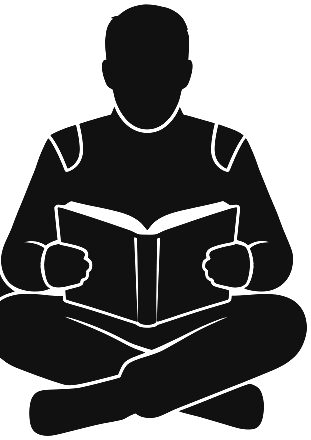
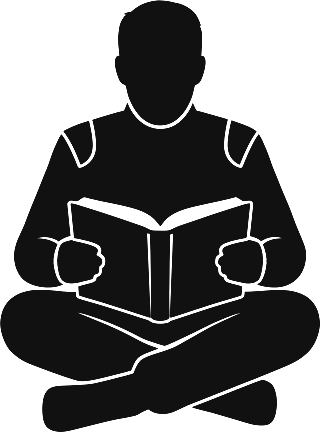
Animaciones: lector piensa en su casco, saltos precisos, figuras legibles sobre el aro, rata que sigue la bolita

diff --git a/assets/css/site.css b/assets/css/site.css
@@ -1171,8 +1171,8 @@ a:hover .esc .fig,.esc:hover .fig{transform:translateX(-50%) translateY(-4px)}
 .ea-pm .c1{background:var(--rojo);margin-left:-100px;animation:pmIzq 7s var(--golpe) infinite}
 .ea-pm .c2{border:9px solid var(--negro);margin-left:-18px;animation:pmDer 7s var(--golpe) infinite}
 .ea-pm .suelo{position:absolute;left:12%;right:12%;bottom:12px;height:2px;background:var(--negro)}
-@keyframes pmIzq{0%{transform:translateX(-190px)}18%,86%{transform:none}96%,100%{transform:translateX(-190px)}}
-@keyframes pmDer{0%{transform:translateX(190px)}18%,86%{transform:none}96%,100%{transform:translateX(190px)}}
+
+
 .ea-pm .pa,.ea-pm .pb{height:62px;width:auto;bottom:42px;opacity:0}
 .ea-pm .pa{left:calc(50% - 26px);animation:pmA 7s var(--golpe) infinite}
 .ea-pm .pb{left:calc(50% - 1px);animation:pmB 7s var(--golpe) infinite}
@@ -1252,9 +1252,9 @@ a:hover .esc .fig,.esc:hover .fig{transform:translateX(-50%) translateY(-4px)}
 .ta-plan .run{animation:salta 9s linear infinite}
 .ta-plan .sit{height:30px;left:102px;top:44px;animation:sientaP 9s linear infinite}
 .ta-plan .walk{animation:vuelve 9s linear infinite}
-@keyframes salta{0%{opacity:1;transform:translate(-40px,60px)}6%{transform:translate(0,48px)}9%{transform:translate(2px,46px)}13%{transform:translate(14px,30px)}17%{transform:translate(26px,40px)}20%{transform:translate(27px,40px)}25%{transform:translate(42px,22px)}29%{transform:translate(58px,32px)}32%{transform:translate(59px,32px)}38%{transform:translate(82px,10px)}43%{opacity:1;transform:translate(102px,22px)}44%,100%{opacity:0;transform:translate(102px,22px)}}
-@keyframes sientaP{0%,43%{opacity:0}44%,68%{opacity:1}69%,100%{opacity:0}}
-@keyframes vuelve{0%,68%{opacity:0;transform:translate(104px,22px) scaleX(-1)}69%{opacity:1;transform:translate(104px,22px) scaleX(-1)}74%{transform:translate(120px,54px) scaleX(-1)}76%{transform:translate(118px,82px) scaleX(-1)}98%{opacity:1;transform:translate(-40px,82px) scaleX(-1)}100%{opacity:0;transform:translate(-40px,82px) scaleX(-1)}}
+
+
+
 @media (max-width:440px){.tool{grid-template-columns:1fr}}
 @media (prefers-reduced-motion:reduce){.ea *,.ta *{animation:none!important}}
 /* Guía: cómic en tres viñetas */
@@ -1306,3 +1306,36 @@ a:hover .esc .fig,.esc:hover .fig{transform:translateX(-50%) translateY(-4px)}
 @media (max-width:600px){.vin figcaption span{display:none}.vin figcaption b{font-size:11px}.comic{gap:6px}}
 @media (max-width:700px){.cta-btn{max-width:none;margin-right:96px}.recostado{height:180px;top:-64px;left:calc(100% - 8px)}.cta-zona .btn.lg{font-size:16px}}
 .hero-vis .giro-txt text{font-size:12.4px;letter-spacing:0}
+/* VS: la rata sentada sigue la bolita (boceto de Alejo) */
+.vs-rata{left:23%;bottom:1px;height:clamp(150px,15vw,190px);transform-origin:50% 100%;transition:transform .35s var(--rebote);z-index:3}
+.vs-rata.mira{transform:rotate(4deg) translateY(-4px)}
+@media (max-width:899px){.vs-rata{display:block;position:relative;left:auto;bottom:auto;height:120px;width:auto;margin:14px 0 0 6px}}
+@media (max-width:899px){.vs-rata{order:99}}
+/* Siluetas sobre formas: contorno crema para que no se fundan con el negro */
+.ea img,.ta img{filter:drop-shadow(1.6px 0 0 var(--crema)) drop-shadow(-1.6px 0 0 var(--crema)) drop-shadow(0 1.6px 0 var(--crema)) drop-shadow(0 -1.6px 0 var(--crema))}
+/* ProMatch: figuras de pie sobre la línea, dentro del cruce */
+.ea-pm .pa,.ea-pm .pb{height:74px;bottom:12px}
+.ea-pm .pa{left:calc(50% - 31px)}
+.ea-pm .pb{left:calc(50% - 1px)}
+.vs-rata{height:clamp(110px,11vw,150px)}
+@media (max-width:899px){.vs-rata{height:100px}}
+.ea-ac .hoja{display:none}
+/* Plan editorial: aterriza exacto sobre cada bola */
+@keyframes salta{0%{opacity:1;transform:translate(-40px,84px)}5%{transform:translate(-12px,84px)}9%{transform:translate(2px,60px)}12%{transform:translate(2px,60px)}16%{transform:translate(14px,34px)}20%{transform:translate(27px,54px)}23%{transform:translate(27px,54px)}28%{transform:translate(43px,24px)}32%{transform:translate(59px,46px)}35%{transform:translate(59px,46px)}40%{transform:translate(81px,10px)}44%{opacity:1;transform:translate(103px,34px)}45%,100%{opacity:0;transform:translate(103px,34px)}}
+.ta-plan .sit{left:0;top:0;transform:translate(101px,33px);animation:sientaP 9s linear infinite}
+@keyframes sientaP{0%,44%{opacity:0}45%,68%{opacity:1}69%,100%{opacity:0}}
+@keyframes vuelve{0%,68%{opacity:0;transform:translate(104px,34px) scaleX(-1)}69%{opacity:1;transform:translate(104px,34px) scaleX(-1)}72%{transform:translate(122px,50px) scaleX(-1)}75%{transform:translate(126px,84px) scaleX(-1)}97%{opacity:1;transform:translate(-40px,84px) scaleX(-1)}100%{opacity:0;transform:translate(-40px,84px) scaleX(-1)}}
+/* ProMatch eco: sin pantalla vacía entre ciclos */
+@keyframes pmIzq{0%{transform:translateX(-120px)}16%,88%{transform:none}100%{transform:translateX(-120px)}}
+@keyframes pmDer{0%{transform:translateX(120px)}16%,88%{transform:none}100%{transform:translateX(120px)}}
+/* Academy: el lector piensa en su casco */
+.ea-ac .casco{display:none}
+.ea-ac .lect{width:78px;margin-left:-39px;bottom:84px}
+.ea-ac .piensa{position:absolute;left:calc(50% + 30px);bottom:118px;width:90px;height:62px}
+.ea-ac .piensa i{position:absolute;border-radius:50%;background:#fff;border:2px solid var(--negro);opacity:0;transform:scale(.3)}
+.ea-ac .p1{left:0;bottom:0;width:8px;height:8px;animation:pienso 6s infinite}
+.ea-ac .p2{left:10px;bottom:10px;width:13px;height:13px;animation:pienso 6s .3s infinite}
+.ea-ac .nube{position:absolute;left:22px;bottom:18px;width:64px;height:46px;border-radius:50%;background:#fff;border:2px solid var(--negro);display:grid;place-items:center;opacity:0;transform:scale(.3);transform-origin:0 100%;animation:pienso 6s .6s infinite}
+.ea-ac .nube img{position:static;width:34px;filter:none}
+@keyframes pienso{0%,12%{opacity:0;transform:scale(.3)}20%,78%{opacity:1;transform:none}86%,100%{opacity:0;transform:scale(.3)}}
+@media (prefers-reduced-motion:reduce){.ea-ac .piensa i,.ea-ac .nube{opacity:1;transform:none}}

diff --git a/index.html b/index.html
@@ -14,7 +14,7 @@
 <link rel="icon" href="assets/brand/favicon.svg?v=2"><link rel="apple-touch-icon" href="assets/brand/favicon.svg?v=2">
 <link rel="preload" href="assets/fonts/GCEpicPro-ExtraBold.woff2" as="font" type="font/woff2" crossorigin>
 <link rel="preload" href="assets/fonts/ClashDisplay-Regular.woff2" as="font" type="font/woff2" crossorigin>
-<link rel="stylesheet" href="assets/css/site.css?v=8">
+<link rel="stylesheet" href="assets/css/site.css?v=10">
 
 </head>
 <body>
@@ -209,7 +209,7 @@
         <a class="link" href="promatch/">Cómo funciona »</a>
       </article>
       <article class="eco-card rv d2">
-        <div class="eco-forma" role="img" aria-label="Un piloto lee sentado sobre medio círculo rojo y atrapa su casco antes de que caiga"><div class="ea ea-ac"><i class="medio"></i><span class="lect"><img src="assets/mini/lector.webp" alt=""><i class="hoja"></i></span><img class="casco" src="assets/mini/casco.webp" alt=""></div></div>
+        <div class="eco-forma" role="img" aria-label="Un piloto lee sentado sobre medio círculo rojo y piensa en su casco: estudiar también es parte de competir"><div class="ea ea-ac"><i class="medio"></i><span class="lect"><img src="assets/mini/lector.webp?v=2" alt=""></span><span class="piensa"><i class="p1"></i><i class="p2"></i><span class="nube"><img src="assets/mini/casco.webp?v=2" alt=""></span></span></div></div>
         <span class="sub">Formación comercial</span><h3 class="epic">Academy</h3>
         <ul><li>Herramientas gratuitas para empezar hoy</li><li>Consultorías, talleres y programas</li><li>Comunidad: impacto sobre ego</li></ul>
         <a class="link" href="academy/">Entrar a Academy »</a>
@@ -430,6 +430,6 @@
   </div>
 </footer>
 <a class="wa-flot" href="#" data-wa="Hola Daniel, vi la web de Pro Motion Sport Marketing y quiero más información." aria-label="Escríbenos por WhatsApp"><svg viewBox="0 0 24 24" fill="currentColor" aria-hidden="true"><path d="M12 2a10 10 0 0 0-8.6 15.1L2 22l5-1.3A10 10 0 1 0 12 2zm0 18.2c-1.5 0-3-.4-4.3-1.2l-.3-.2-3 .8.8-2.9-.2-.3A8.2 8.2 0 1 1 12 20.2zm4.5-6.1c-.2-.1-1.5-.7-1.7-.8s-.4-.1-.6.1-.7.8-.8 1-.3.2-.5.1a6.7 6.7 0 0 1-3.3-2.9c-.3-.4.3-.4.7-1.4.1-.2 0-.3 0-.4l-.8-1.8c-.2-.5-.4-.4-.6-.4h-.5a1 1 0 0 0-.7.3 3 3 0 0 0-.9 2.2 5.2 5.2 0 0 0 1.1 2.7 11.8 11.8 0 0 0 4.5 4c1.7.7 2.3.8 3.2.6.5-.1 1.5-.6 1.7-1.2s.2-1.1.2-1.2-.2-.2-.5-.3z"/></svg></a>
-<script src="assets/js/site.js?v=4" defer></script>
+<script src="assets/js/site.js?v=5" defer></script>
 </body>
 </html>

diff --git a/deportistas/diego-serrano/index.html b/deportistas/diego-serrano/index.html
@@ -14,7 +14,7 @@
 <link rel="icon" href="../../assets/brand/favicon.svg?v=2"><link rel="apple-touch-icon" href="../../assets/brand/favicon.svg?v=2">
 <link rel="preload" href="../../assets/fonts/GCEpicPro-ExtraBold.woff2" as="font" type="font/woff2" crossorigin>
 <link rel="preload" href="../../assets/fonts/ClashDisplay-Regular.woff2" as="font" type="font/woff2" crossorigin>
-<link rel="stylesheet" href="../../assets/css/site.css?v=8">
+<link rel="stylesheet" href="../../assets/css/site.css?v=10">
 
 </head>
 <body>
@@ -127,6 +127,6 @@
   </div>
 </footer>
 <a class="wa-flot" href="#" data-wa="Hola Daniel, vi la web de Pro Motion Sport Marketing y quiero más información." aria-label="Escríbenos por WhatsApp"><svg viewBox="0 0 24 24" fill="currentColor" aria-hidden="true"><path d="M12 2a10 10 0 0 0-8.6 15.1L2 22l5-1.3A10 10 0 1 0 12 2zm0 18.2c-1.5 0-3-.4-4.3-1.2l-.3-.2-3 .8.8-2.9-.2-.3A8.2 8.2 0 1 1 12 20.2zm4.5-6.1c-.2-.1-1.5-.7-1.7-.8s-.4-.1-.6.1-.7.8-.8 1-.3.2-.5.1a6.7 6.7 0 0 1-3.3-2.9c-.3-.4.3-.4.7-1.4.1-.2 0-.3 0-.4l-.8-1.8c-.2-.5-.4-.4-.6-.4h-.5a1 1 0 0 0-.7.3 3 3 0 0 0-.9 2.2 5.2 5.2 0 0 0 1.1 2.7 11.8 11.8 0 0 0 4.5 4c1.7.7 2.3.8 3.2.6.5-.1 1.5-.6 1.7-1.2s.2-1.1.2-1.2-.2-.2-.5-.3z"/></svg></a>
-<script src="../../assets/js/site.js?v=4" defer></script>
+<script src="../../assets/js/site.js?v=5" defer></script>
 </body>
 </html>

diff --git a/deportistas/juan-guerrero/index.html b/deportistas/juan-guerrero/index.html
@@ -14,7 +14,7 @@
 <link rel="icon" href="../../assets/brand/favicon.svg?v=2"><link rel="apple-touch-icon" href="../../assets/brand/favicon.svg?v=2">
 <link rel="preload" href="../../assets/fonts/GCEpicPro-ExtraBold.woff2" as="font" type="font/woff2" crossorigin>
 <link rel="preload" href="../../assets/fonts/ClashDisplay-Regular.woff2" as="font" type="font/woff2" crossorigin>
-<link rel="stylesheet" href="../../assets/css/site.css?v=8">
+<link rel="stylesheet" href="../../assets/css/site.css?v=10">
 
 </head>
 <body>
@@ -127,6 +127,6 @@
   </div>
 </footer>
 <a class="wa-flot" href="#" data-wa="Hola Daniel, vi la web de Pro Motion Sport Marketing y quiero más información." aria-label="Escríbenos por WhatsApp"><svg viewBox="0 0 24 24" fill="currentColor" aria-hidden="true"><path d="M12 2a10 10 0 0 0-8.6 15.1L2 22l5-1.3A10 10 0 1 0 12 2zm0 18.2c-1.5 0-3-.4-4.3-1.2l-.3-.2-3 .8.8-2.9-.2-.3A8.2 8.2 0 1 1 12 20.2zm4.5-6.1c-.2-.1-1.5-.7-1.7-.8s-.4-.1-.6.1-.7.8-.8 1-.3.2-.5.1a6.7 6.7 0 0 1-3.3-2.9c-.3-.4.3-.4.7-1.4.1-.2 0-.3 0-.4l-.8-1.8c-.2-.5-.4-.4-.6-.4h-.5a1 1 0 0 0-.7.3 3 3 0 0 0-.9 2.2 5.2 5.2 0 0 0 1.1 2.7 11.8 11.8 0 0 0 4.5 4c1.7.7 2.3.8 3.2.6.5-.1 1.5-.6 1.7-1.2s.2-1.1.2-1.2-.2-.2-.5-.3z"/></svg></a>
-<script src="../../assets/js/site.js?v=4" defer></script>
+<script src="../../assets/js/site.js?v=5" defer></script>
 </body>
 </html>

diff --git a/deportistas/luis-cross/index.html b/deportistas/luis-cross/index.html
@@ -14,7 +14,7 @@
 <link rel="icon" href="../../assets/brand/favicon.svg?v=2"><link rel="apple-touch-icon" href="../../assets/brand/favicon.svg?v=2">
 <link rel="preload" href="../../assets/fonts/GCEpicPro-ExtraBold.woff2" as="font" type="font/woff2" crossorigin>
 <link rel="preload" href="../../assets/fonts/ClashDisplay-Regular.woff2" as="font" type="font/woff2" crossorigin>
-<link rel="stylesheet" href="../../assets/css/site.css?v=8">
+<link rel="stylesheet" href="../../assets/css/site.css?v=10">
 
 </head>
 <body>
@@ -131,6 +131,6 @@
   </div>
 </footer>
 <a class="wa-flot" href="#" data-wa="Hola Daniel, vi la web de Pro Motion Sport Marketing y quiero más información." aria-label="Escríbenos por WhatsApp"><svg viewBox="0 0 24 24" fill="currentColor" aria-hidden="true"><path d="M12 2a10 10 0 0 0-8.6 15.1L2 22l5-1.3A10 10 0 1 0 12 2zm0 18.2c-1.5 0-3-.4-4.3-1.2l-.3-.2-3 .8.8-2.9-.2-.3A8.2 8.2 0 1 1 12 20.2zm4.5-6.1c-.2-.1-1.5-.7-1.7-.8s-.4-.1-.6.1-.7.8-.8 1-.3.2-.5.1a6.7 6.7 0 0 1-3.3-2.9c-.3-.4.3-.4.7-1.4.1-.2 0-.3 0-.4l-.8-1.8c-.2-.5-.4-.4-.6-.4h-.5a1 1 0 0 0-.7.3 3 3 0 0 0-.9 2.2 5.2 5.2 0 0 0 1.1 2.7 11.8 11.8 0 0 0 4.5 4c1.7.7 2.3.8 3.2.6.5-.1 1.5-.6 1.7-1.2s.2-1.1.2-1.2-.2-.2-.5-.3z"/></svg></a>
-<script src="../../assets/js/site.js?v=4" defer></script>
+<script src="../../assets/js/site.js?v=5" defer></script>
 </body>
 </html>

diff --git a/deportistas/sebastian-merchan/index.html b/deportistas/sebastian-merchan/index.html
@@ -14,7 +14,7 @@
 <link rel="icon" href="../../assets/brand/favicon.svg?v=2"><link rel="apple-touch-icon" href="../../assets/brand/favicon.svg?v=2">
 <link rel="preload" href="../../assets/fonts/GCEpicPro-ExtraBold.woff2" as="font" type="font/woff2" crossorigin>
 <link rel="preload" href="../../assets/fonts/ClashDisplay-Regular.woff2" as="font" type="font/woff2" crossorigin>
-<link rel="stylesheet" href="../../assets/css/site.css?v=8">
+<link rel="stylesheet" href="../../assets/css/site.css?v=10">
 
 </head>
 <body>
@@ -131,6 +131,6 @@
   </div>
 </footer>
 <a class="wa-flot" href="#" data-wa="Hola Daniel, vi la web de Pro Motion Sport Marketing y quiero más información." aria-label="Escríbenos por WhatsApp"><svg viewBox="0 0 24 24" fill="currentColor" aria-hidden="true"><path d="M12 2a10 10 0 0 0-8.6 15.1L2 22l5-1.3A10 10 0 1 0 12 2zm0 18.2c-1.5 0-3-.4-4.3-1.2l-.3-.2-3 .8.8-2.9-.2-.3A8.2 8.2 0 1 1 12 20.2zm4.5-6.1c-.2-.1-1.5-.7-1.7-.8s-.4-.1-.6.1-.7.8-.8 1-.3.2-.5.1a6.7 6.7 0 0 1-3.3-2.9c-.3-.4.3-.4.7-1.4.1-.2 0-.3 0-.4l-.8-1.8c-.2-.5-.4-.4-.6-.4h-.5a1 1 0 0 0-.7.3 3 3 0 0 0-.9 2.2 5.2 5.2 0 0 0 1.1 2.7 11.8 11.8 0 0 0 4.5 4c1.7.7 2.3.8 3.2.6.5-.1 1.5-.6 1.7-1.2s.2-1.1.2-1.2-.2-.2-.5-.3z"/></svg></a>
-<script src="../../assets/js/site.js?v=4" defer></script>
+<script src="../../assets/js/site.js?v=5" defer></script>
 </body>
 </html>

diff --git a/academy/index.html b/academy/index.html
@@ -14,7 +14,7 @@
 <link rel="icon" href="../assets/brand/favicon.svg?v=2"><link rel="apple-touch-icon" href="../assets/brand/favicon.svg?v=2">
 <link rel="preload" href="../assets/fonts/GCEpicPro-ExtraBold.woff2" as="font" type="font/woff2" crossorigin>
 <link rel="preload" href="../assets/fonts/ClashDisplay-Regular.woff2" as="font" type="font/woff2" crossorigin>
-<link rel="stylesheet" href="../assets/css/site.css?v=8">
+<link rel="stylesheet" href="../assets/css/site.css?v=10">
 
 </head>
 <body>
@@ -156,6 +156,6 @@
   </div>
 </footer>
 <a class="wa-flot" href="#" data-wa="Hola Daniel, vi la web de Pro Motion Sport Marketing y quiero más información." aria-label="Escríbenos por WhatsApp"><svg viewBox="0 0 24 24" fill="currentColor" aria-hidden="true"><path d="M12 2a10 10 0 0 0-8.6 15.1L2 22l5-1.3A10 10 0 1 0 12 2zm0 18.2c-1.5 0-3-.4-4.3-1.2l-.3-.2-3 .8.8-2.9-.2-.3A8.2 8.2 0 1 1 12 20.2zm4.5-6.1c-.2-.1-1.5-.7-1.7-.8s-.4-.1-.6.1-.7.8-.8 1-.3.2-.5.1a6.7 6.7 0 0 1-3.3-2.9c-.3-.4.3-.4.7-1.4.1-.2 0-.3 0-.4l-.8-1.8c-.2-.5-.4-.4-.6-.4h-.5a1 1 0 0 0-.7.3 3 3 0 0 0-.9 2.2 5.2 5.2 0 0 0 1.1 2.7 11.8 11.8 0 0 0 4.5 4c1.7.7 2.3.8 3.2.6.5-.1 1.5-.6 1.7-1.2s.2-1.1.2-1.2-.2-.2-.5-.3z"/></svg></a>
-<script src="../assets/js/site.js?v=4" defer></script>
+<script src="../assets/js/site.js?v=5" defer></script>
 </body>
 </html>

diff --git a/deportistas/index.html b/deportistas/index.html
@@ -14,7 +14,7 @@
 <link rel="icon" href="../assets/brand/favicon.svg?v=2"><link rel="apple-touch-icon" href="../assets/brand/favicon.svg?v=2">
 <link rel="preload" href="../assets/fonts/GCEpicPro-ExtraBold.woff2" as="font" type="font/woff2" crossorigin>
 <link rel="preload" href="../assets/fonts/ClashDisplay-Regular.woff2" as="font" type="font/woff2" crossorigin>
-<link rel="stylesheet" href="../assets/css/site.css?v=8">
+<link rel="stylesheet" href="../assets/css/site.css?v=10">
 
 </head>
 <body>
@@ -228,6 +228,6 @@
   </div>
 </footer>
 <a class="wa-flot" href="#" data-wa="Hola Daniel, vi la web de Pro Motion Sport Marketing y quiero más información." aria-label="Escríbenos por WhatsApp"><svg viewBox="0 0 24 24" fill="currentColor" aria-hidden="true"><path d="M12 2a10 10 0 0 0-8.6 15.1L2 22l5-1.3A10 10 0 1 0 12 2zm0 18.2c-1.5 0-3-.4-4.3-1.2l-.3-.2-3 .8.8-2.9-.2-.3A8.2 8.2 0 1 1 12 20.2zm4.5-6.1c-.2-.1-1.5-.7-1.7-.8s-.4-.1-.6.1-.7.8-.8 1-.3.2-.5.1a6.7 6.7 0 0 1-3.3-2.9c-.3-.4.3-.4.7-1.4.1-.2 0-.3 0-.4l-.8-1.8c-.2-.5-.4-.4-.6-.4h-.5a1 1 0 0 0-.7.3 3 3 0 0 0-.9 2.2 5.2 5.2 0 0 0 1.1 2.7 11.8 11.8 0 0 0 4.5 4c1.7.7 2.3.8 3.2.6.5-.1 1.5-.6 1.7-1.2s.2-1.1.2-1.2-.2-.2-.5-.3z"/></svg></a>
-<script src="../assets/js/site.js?v=4" defer></script>
+<script src="../assets/js/site.js?v=5" defer></script>
 </body>
 </html>

diff --git a/eventos/index.html b/eventos/index.html
@@ -14,7 +14,7 @@
 <link rel="icon" href="../assets/brand/favicon.svg?v=2"><link rel="apple-touch-icon" href="../assets/brand/favicon.svg?v=2">
 <link rel="preload" href="../assets/fonts/GCEpicPro-ExtraBold.woff2" as="font" type="font/woff2" crossorigin>
 <link rel="preload" href="../assets/fonts/ClashDisplay-Regular.woff2" as="font" type="font/woff2" crossorigin>
-<link rel="stylesheet" href="../assets/css/site.css?v=8">
+<link rel="stylesheet" href="../assets/css/site.css?v=10">
 
 </head>
 <body>
@@ -146,6 +146,6 @@
   </div>
 </footer>
 <a class="wa-flot" href="#" data-wa="Hola Daniel, vi la web de Pro Motion Sport Marketing y quiero más información." aria-label="Escríbenos por WhatsApp"><svg viewBox="0 0 24 24" fill="currentColor" aria-hidden="true"><path d="M12 2a10 10 0 0 0-8.6 15.1L2 22l5-1.3A10 10 0 1 0 12 2zm0 18.2c-1.5 0-3-.4-4.3-1.2l-.3-.2-3 .8.8-2.9-.2-.3A8.2 8.2 0 1 1 12 20.2zm4.5-6.1c-.2-.1-1.5-.7-1.7-.8s-.4-.1-.6.1-.7.8-.8 1-.3.2-.5.1a6.7 6.7 0 0 1-3.3-2.9c-.3-.4.3-.4.7-1.4.1-.2 0-.3 0-.4l-.8-1.8c-.2-.5-.4-.4-.6-.4h-.5a1 1 0 0 0-.7.3 3 3 0 0 0-.9 2.2 5.2 5.2 0 0 0 1.1 2.7 11.8 11.8 0 0 0 4.5 4c1.7.7 2.3.8 3.2.6.5-.1 1.5-.6 1.7-1.2s.2-1.1.2-1.2-.2-.2-.5-.3z"/></svg></a>
-<script src="../assets/js/site.js?v=4" defer></script>
+<script src="../assets/js/site.js?v=5" defer></script>
 </body>
 </html>

diff --git a/marcas/index.html b/marcas/index.html
@@ -14,7 +14,7 @@
 <link rel="icon" href="../assets/brand/favicon.svg?v=2"><link rel="apple-touch-icon" href="../assets/brand/favicon.svg?v=2">
 <link rel="preload" href="../assets/fonts/GCEpicPro-ExtraBold.woff2" as="font" type="font/woff2" crossorigin>
 <link rel="preload" href="../assets/fonts/ClashDisplay-Regular.woff2" as="font" type="font/woff2" crossorigin>
-<link rel="stylesheet" href="../assets/css/site.css?v=8">
+<link rel="stylesheet" href="../assets/css/site.css?v=10">
 
 </head>
 <body>
@@ -136,6 +136,6 @@
   </div>
 </footer>
 <a class="wa-flot" href="#" data-wa="Hola Daniel, vi la web de Pro Motion Sport Marketing y quiero más información." aria-label="Escríbenos por WhatsApp"><svg viewBox="0 0 24 24" fill="currentColor" aria-hidden="true"><path d="M12 2a10 10 0 0 0-8.6 15.1L2 22l5-1.3A10 10 0 1 0 12 2zm0 18.2c-1.5 0-3-.4-4.3-1.2l-.3-.2-3 .8.8-2.9-.2-.3A8.2 8.2 0 1 1 12 20.2zm4.5-6.1c-.2-.1-1.5-.7-1.7-.8s-.4-.1-.6.1-.7.8-.8 1-.3.2-.5.1a6.7 6.7 0 0 1-3.3-2.9c-.3-.4.3-.4.7-1.4.1-.2 0-.3 0-.4l-.8-1.8c-.2-.5-.4-.4-.6-.4h-.5a1 1 0 0 0-.7.3 3 3 0 0 0-.9 2.2 5.2 5.2 0 0 0 1.1 2.7 11.8 11.8 0 0 0 4.5 4c1.7.7 2.3.8 3.2.6.5-.1 1.5-.6 1.7-1.2s.2-1.1.2-1.2-.2-.2-.5-.3z"/></svg></a>
-<script src="../assets/js/site.js?v=4" defer></script>
+<script src="../assets/js/site.js?v=5" defer></script>
 </body>
 </html>

diff --git a/promatch/index.html b/promatch/index.html
@@ -14,7 +14,7 @@
 <link rel="icon" href="../assets/brand/favicon.svg?v=2"><link rel="apple-touch-icon" href="../assets/brand/favicon.svg?v=2">
 <link rel="preload" href="../assets/fonts/GCEpicPro-ExtraBold.woff2" as="font" type="font/woff2" crossorigin>
 <link rel="preload" href="../assets/fonts/ClashDisplay-Regular.woff2" as="font" type="font/woff2" crossorigin>
-<link rel="stylesheet" href="../assets/css/site.css?v=8">
+<link rel="stylesheet" href="../assets/css/site.css?v=10">
 
 </head>
 <body>
@@ -167,6 +167,6 @@
   </div>
 </footer>
 <a class="wa-flot" href="#" data-wa="Hola Daniel, vi la web de Pro Motion Sport Marketing y quiero más información." aria-label="Escríbenos por WhatsApp"><svg viewBox="0 0 24 24" fill="currentColor" aria-hidden="true"><path d="M12 2a10 10 0 0 0-8.6 15.1L2 22l5-1.3A10 10 0 1 0 12 2zm0 18.2c-1.5 0-3-.4-4.3-1.2l-.3-.2-3 .8.8-2.9-.2-.3A8.2 8.2 0 1 1 12 20.2zm4.5-6.1c-.2-.1-1.5-.7-1.7-.8s-.4-.1-.6.1-.7.8-.8 1-.3.2-.5.1a6.7 6.7 0 0 1-3.3-2.9c-.3-.4.3-.4.7-1.4.1-.2 0-.3 0-.4l-.8-1.8c-.2-.5-.4-.4-.6-.4h-.5a1 1 0 0 0-.7.3 3 3 0 0 0-.9 2.2 5.2 5.2 0 0 0 1.1 2.7 11.8 11.8 0 0 0 4.5 4c1.7.7 2.3.8 3.2.6.5-.1 1.5-.6 1.7-1.2s.2-1.1.2-1.2-.2-.2-.5-.3z"/></svg></a>
-<script src="../assets/js/site.js?v=4" defer></script>
+<script src="../assets/js/site.js?v=5" defer></script>
 </body>
 </html>

diff --git a/servicios/index.html b/servicios/index.html
@@ -14,7 +14,7 @@
 <link rel="icon" href="../assets/brand/favicon.svg?v=2"><link rel="apple-touch-icon" href="../assets/brand/favicon.svg?v=2">
 <link rel="preload" href="../assets/fonts/GCEpicPro-ExtraBold.woff2" as="font" type="font/woff2" crossorigin>
 <link rel="preload" href="../assets/fonts/ClashDisplay-Regular.woff2" as="font" type="font/woff2" crossorigin>
-<link rel="stylesheet" href="../assets/css/site.css?v=8">
+<link rel="stylesheet" href="../assets/css/site.css?v=10">
 
 </head>
 <body>
@@ -339,6 +339,6 @@
   </div>
 </footer>
 <a class="wa-flot" href="#" data-wa="Hola Daniel, vi la web de Pro Motion Sport Marketing y quiero más información." aria-label="Escríbenos por WhatsApp"><svg viewBox="0 0 24 24" fill="currentColor" aria-hidden="true"><path d="M12 2a10 10 0 0 0-8.6 15.1L2 22l5-1.3A10 10 0 1 0 12 2zm0 18.2c-1.5 0-3-.4-4.3-1.2l-.3-.2-3 .8.8-2.9-.2-.3A8.2 8.2 0 1 1 12 20.2zm4.5-6.1c-.2-.1-1.5-.7-1.7-.8s-.4-.1-.6.1-.7.8-.8 1-.3.2-.5.1a6.7 6.7 0 0 1-3.3-2.9c-.3-.4.3-.4.7-1.4.1-.2 0-.3 0-.4l-.8-1.8c-.2-.5-.4-.4-.6-.4h-.5a1 1 0 0 0-.7.3 3 3 0 0 0-.9 2.2 5.2 5.2 0 0 0 1.1 2.7 11.8 11.8 0 0 0 4.5 4c1.7.7 2.3.8 3.2.6.5-.1 1.5-.6 1.7-1.2s.2-1.1.2-1.2-.2-.2-.5-.3z"/></svg></a>
-<script src="../assets/js/site.js?v=4" defer></script>
+<script src="../assets/js/site.js?v=5" defer></script>
 </body>
 </html>
